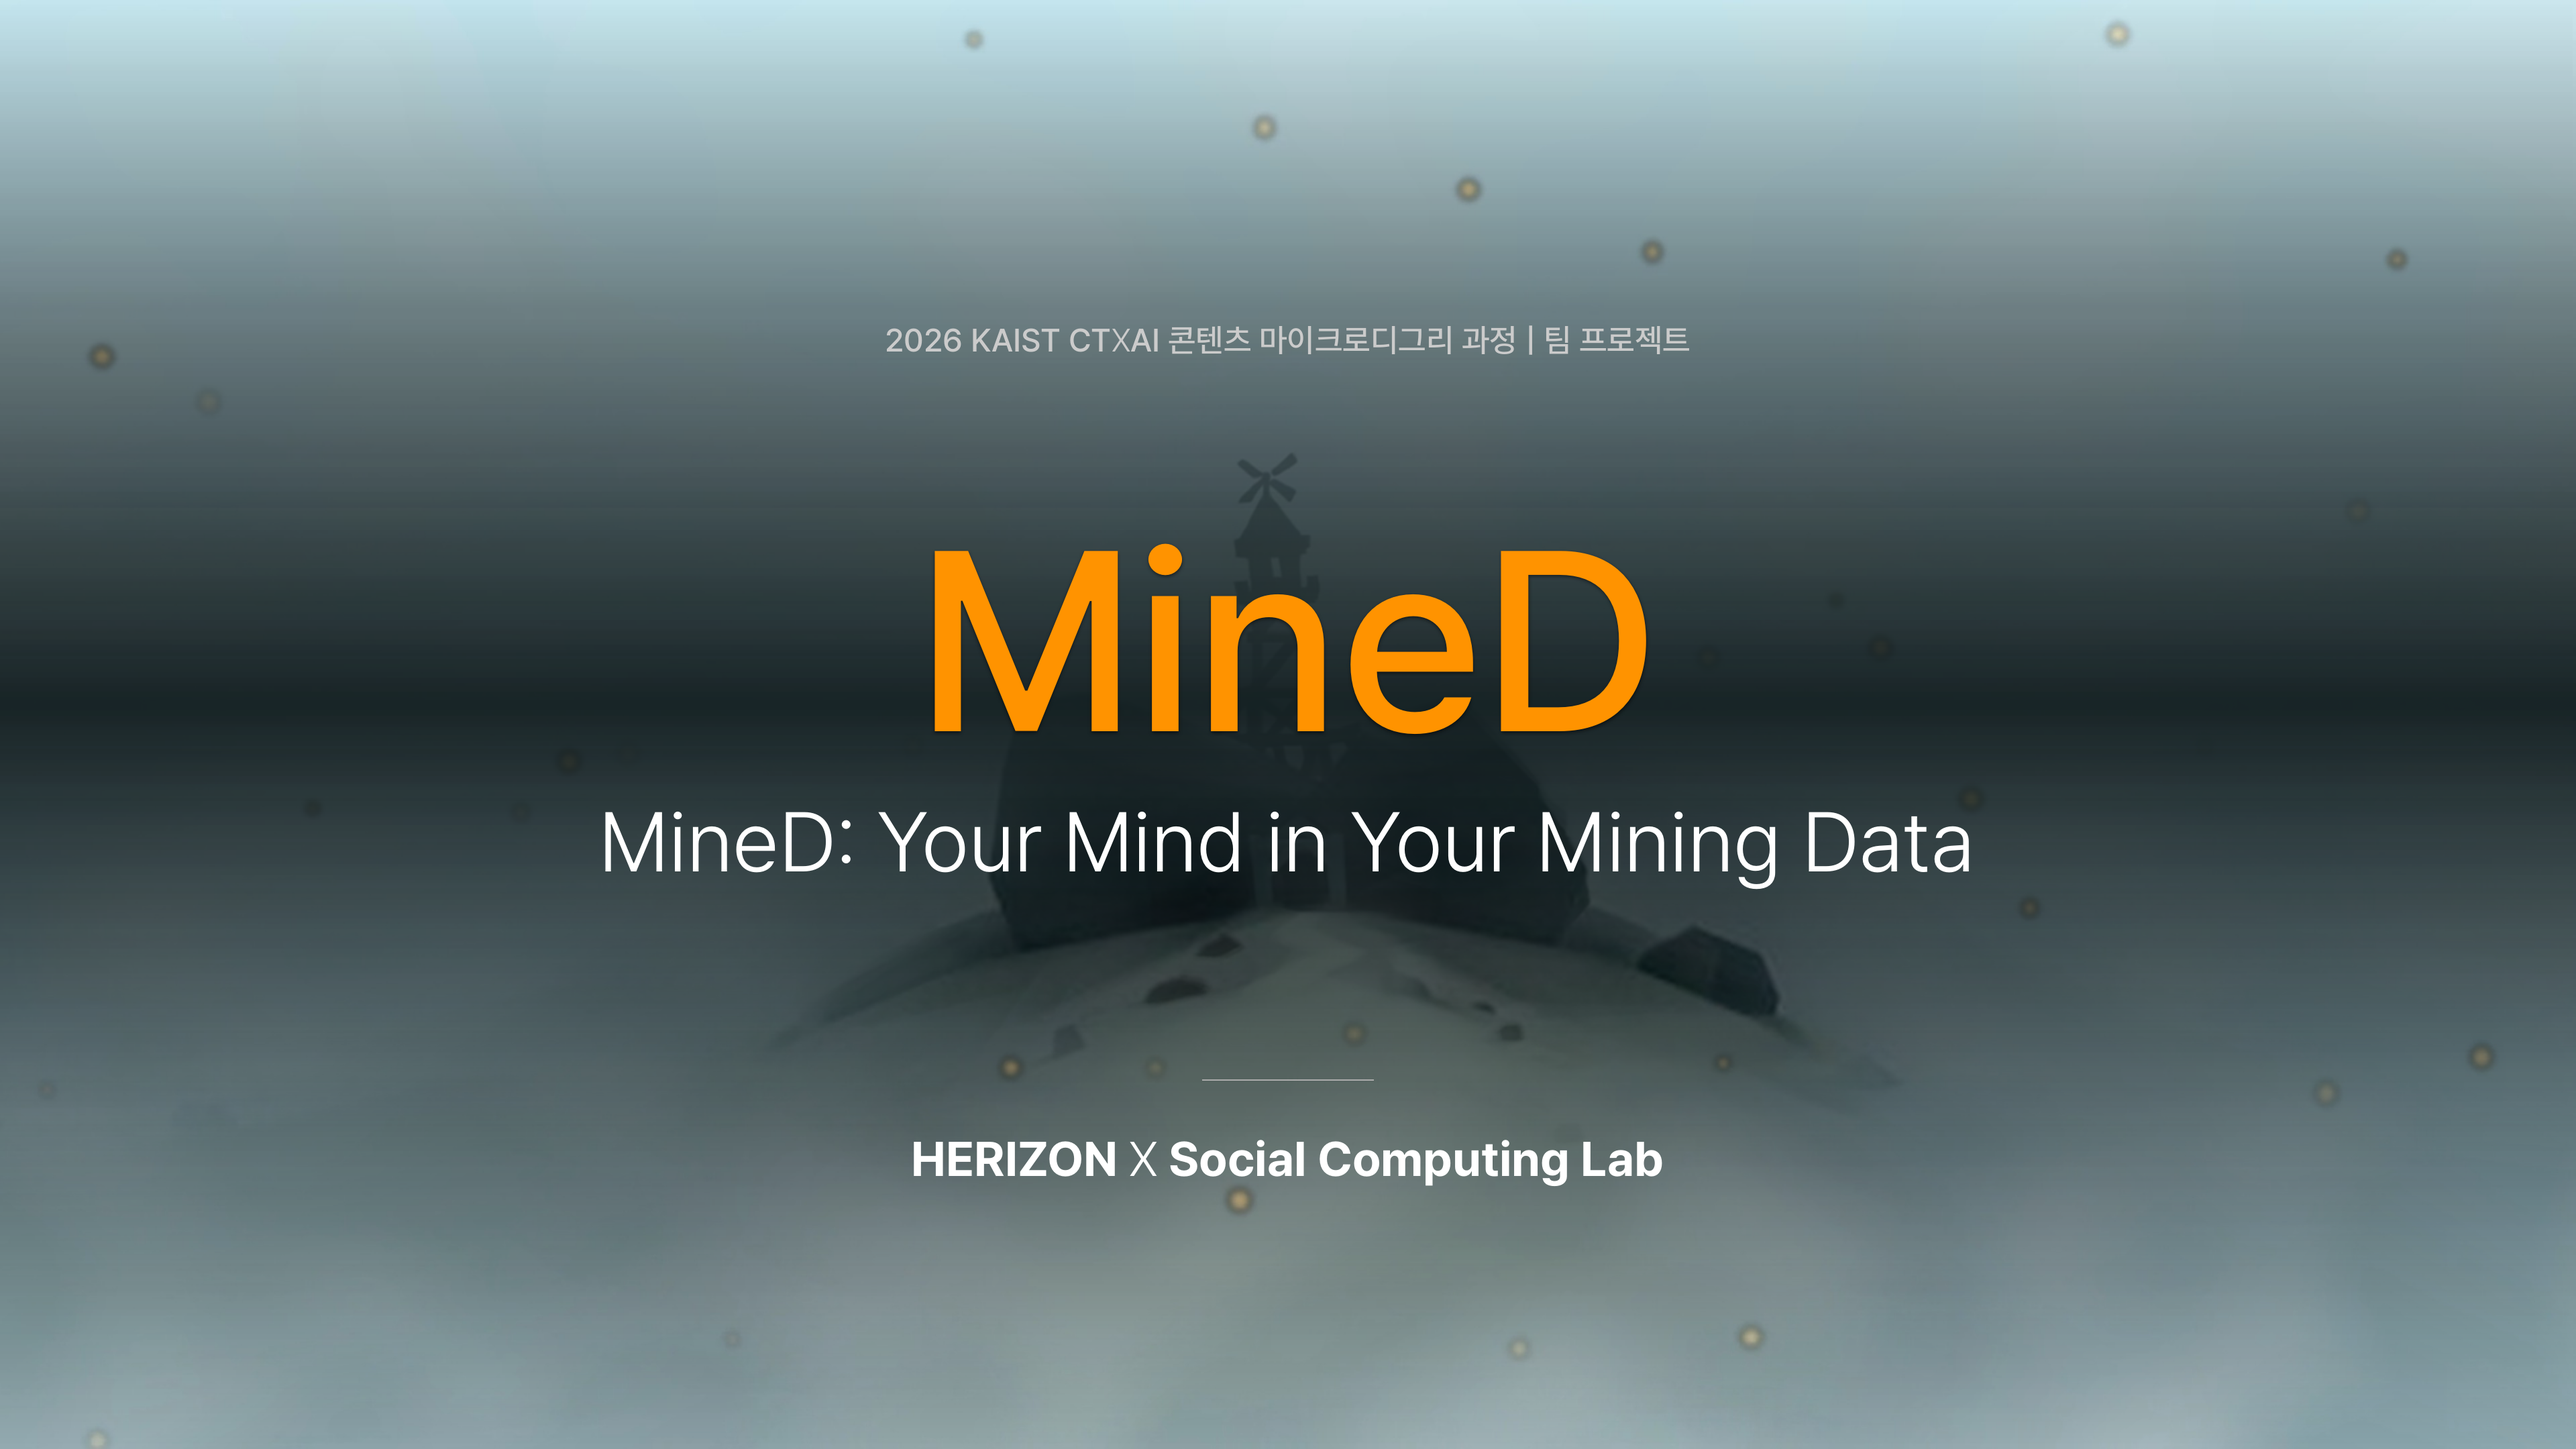
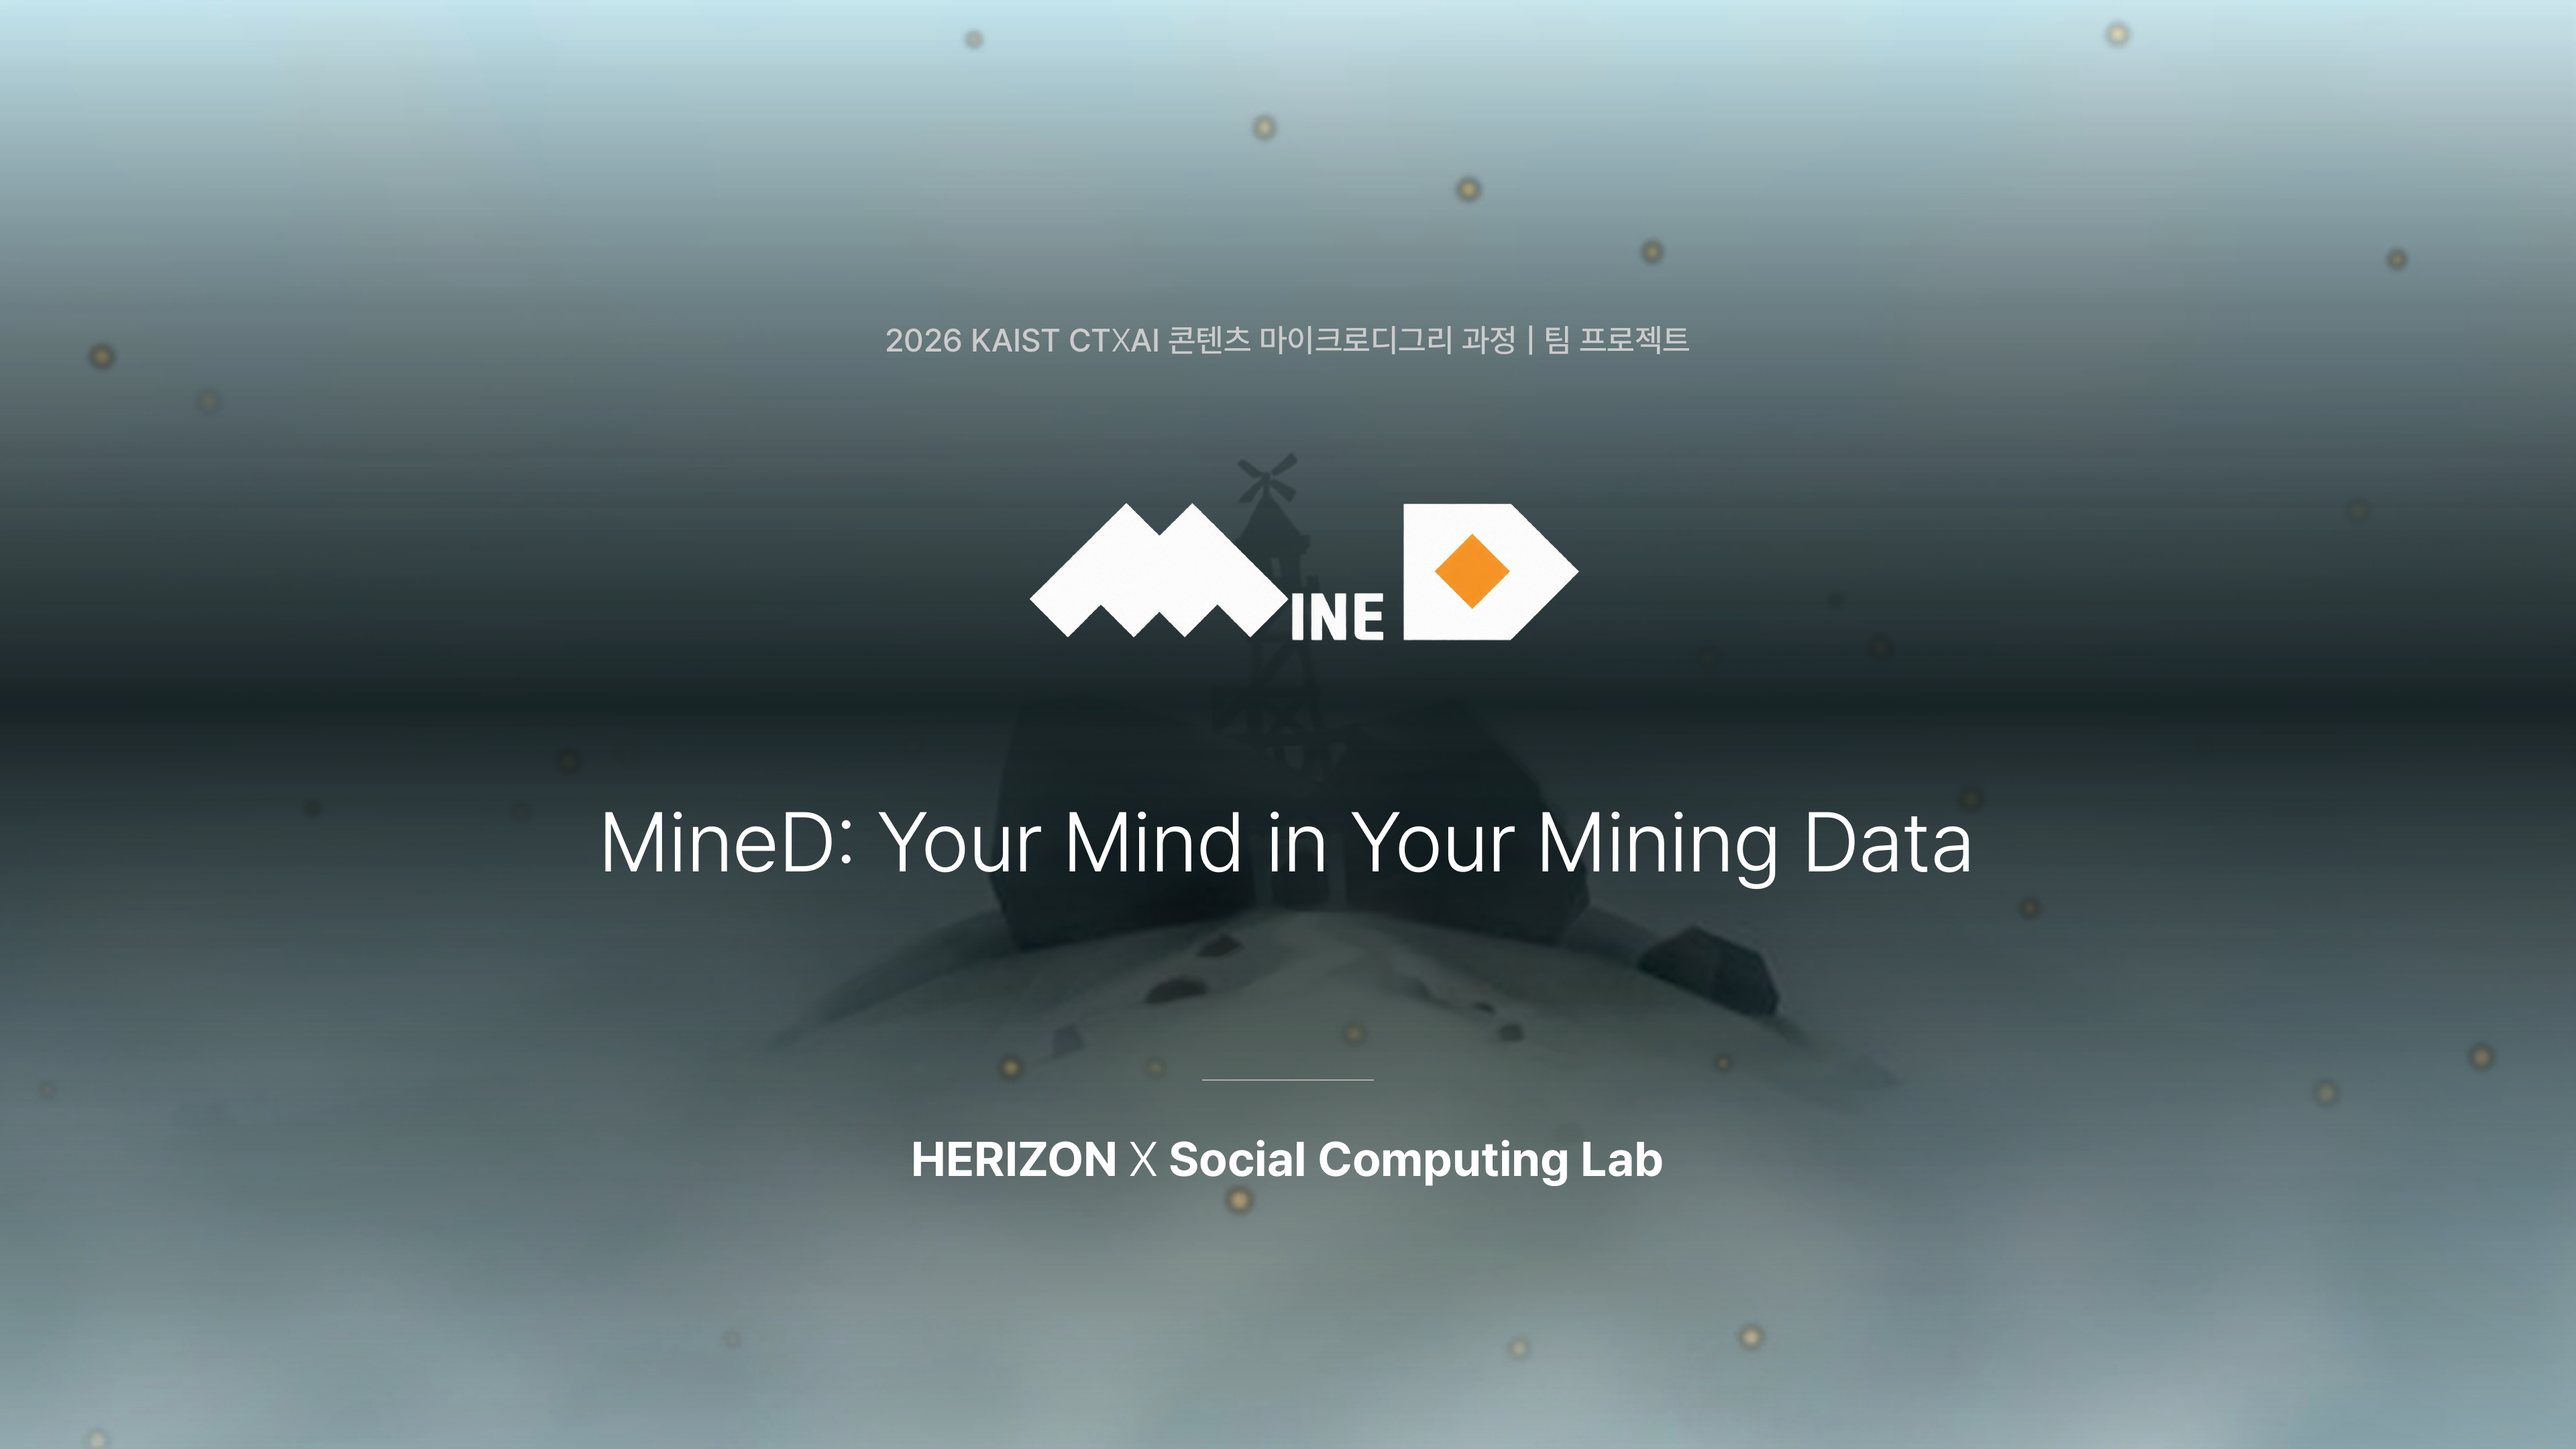
쇼케이스 v7: 2번 타이틀 장에 최종 로고(단희님 산 M) 넣음
Claude-Session: https://claude.ai/code/session_01H6XxrjKT2zziYGGeC5Esr8

Changed region(s): [[0.3438, 0.3412, 0.6562, 0.5273]]

diff --git a/showcase/v0.5_kit/layout/fill.py b/showcase/v0.5_kit/layout/fill.py
@@ -1,4 +1,4 @@
-import copy, sys
+import copy, os, sys
 from pptx import Presentation
 from pptx.util import Inches
 from pptx.dml.color import RGBColor
@@ -77,6 +77,12 @@ def tech_box(slide, body):
     set_text(sh, body + [[(True, 'AI Tool '), (False, AITOOL)]]); return sh
 
 # 메인 3 · 서브 7·8 · 심포지엄 17·18
+# 2 타이틀: 입력 글자 「MineD」 대신 단희님 최종 로고(산 M + INE + 결정 D, 흰색판)  11/10 보별
+_t2 = [sh for sh in S(2).shapes if sh.has_text_frame and sh.text_frame.text.strip() == 'MineD'][0]
+_cx, _cy = _t2.left + _t2.width // 2, _t2.top + _t2.height // 2
+_t2._element.getparent().remove(_t2._element)
+_lh = Inches(float(os.environ.get('LOGO_H', '7.2'))); _lw = int(_lh * 1452 / 739)
+S(2).shapes.add_picture(os.path.join(os.path.dirname(os.path.abspath(__file__)), 'img', 'logo_white.png'), _cx - _lw // 2, _cy - _lh // 2 - Inches(0.85), _lw, _lh)
 set_text(find(S(3), '이미 쌓인'), [SCEN_S]); tech_box(S(3), TECH_S)
 for n in (7, 17):
     set_text(find(S(n), '이미 쌓인'), [SCEN_L])
